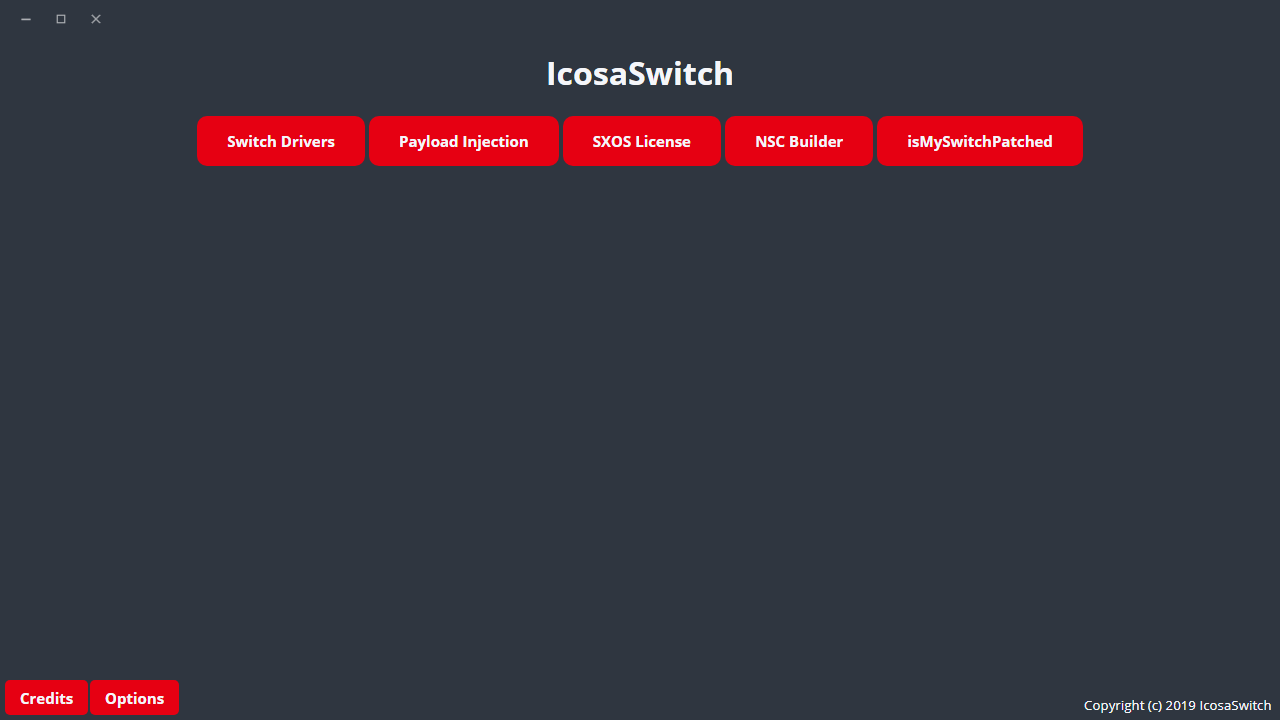
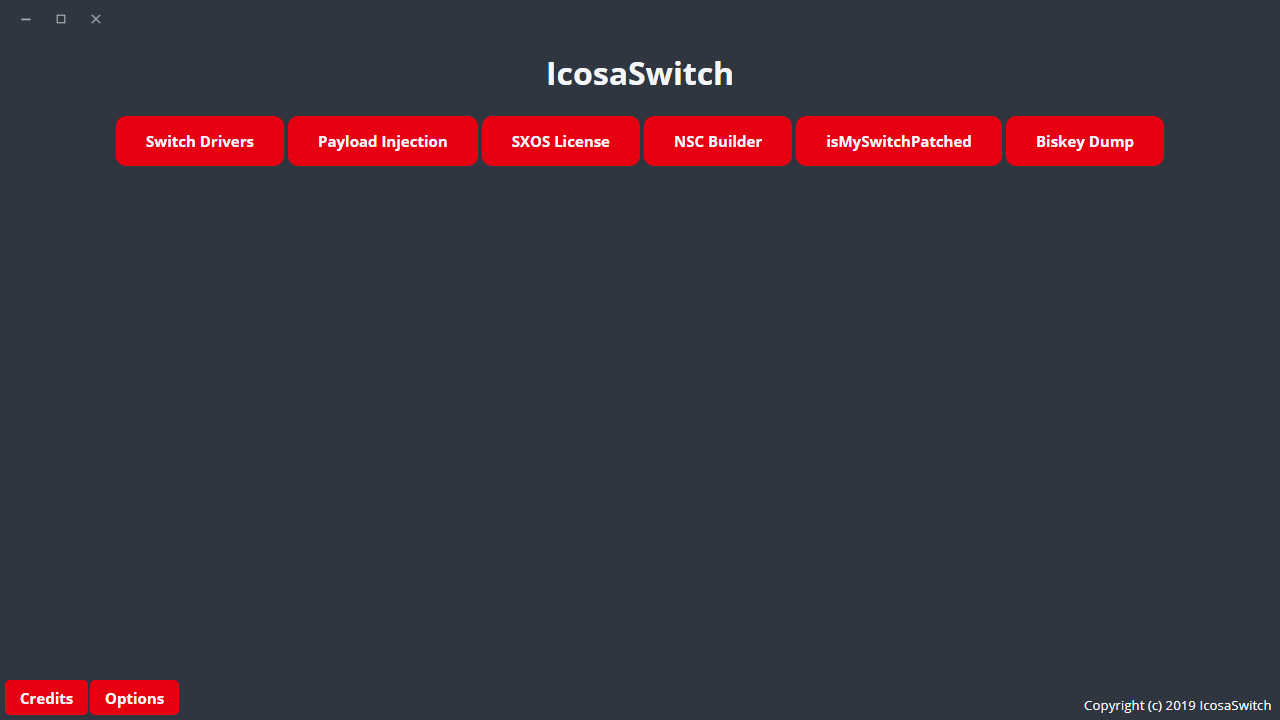
Added BiskeyDump and init 1.5.0

Changed region(s): [[0.0938, 0.1528, 0.9062, 0.2444]]

diff --git a/app/js/ui.js b/app/js/ui.js
@@ -254,6 +254,10 @@ function app(){
     document.getElementById("main").innerHTML = ejs.render(fs.readFileSync(path.join(__dirname, "ui", "switchpatch", "main.ejs"), "utf8"));
     switchpatch();
   });
+  $("#biskeydump").click(() => {
+    document.getElementById("main").innerHTML = ejs.render(fs.readFileSync(path.join(__dirname, "ui", "biskeydump", "main.ejs"), "utf8"));
+    biskeydump();
+  });
 }
 
 function credits(){
@@ -1127,4 +1131,179 @@ function switchpatch(){
       }
     }
   });
+}
+
+function biskeydump(){
+  $("#mainmenu").click(() => {
+    app();
+  });
+  $("#continue").click(async () => {
+    if(process.platform === "win32"){
+      if(!fs.existsSync(path.join(root, "TegraRcmSmash.exe"))){
+        document.getElementById("tool").innerHTML = "<p>"+options.lang.downloading+"...</p>";
+        document.getElementById("mainmenu").setAttribute("style", 'visibility: hidden;');
+        const res = await fetch('https://github.com/Pharuxtan/IcosaSwitch/releases/download/files/TegraRcmSmash.exe');
+        let result;
+        await new Promise((resolve, reject) => {
+          const fileStream = fs.createWriteStream(path.join(root, "TegraRcmSmash.exe"));
+          res.body.pipe(fileStream);
+          res.body.on("error", (err) => {
+            result = err;
+            reject();
+          });
+          fileStream.on("finish", function() {
+            result = "success"
+            resolve();
+          });
+        });
+        if(result === "success"){
+          biskeydl();
+        } else {
+          document.getElementById("tool").innerHTML = "<p>"+options.lang.error+": "+result+"</p>";
+          document.getElementById("mainmenu").setAttribute("style", 'visibility: visible;');
+        }
+      } else {
+        biskeydl();
+      }
+    } else {
+      if(!fs.existsSync(path.join(root, "drivers", "fuseelauncher"))){
+        document.getElementById("tool").innerHTML = "<p>"+options.lang.downloading+"...</p>";
+        document.getElementById("mainmenu").setAttribute("style", 'visibility: hidden;');
+        const res = await fetch('https://github.com/Qyriad/fusee-launcher/archive/1.0.zip');
+        let result;
+        await new Promise((resolve, reject) => {
+          const fileStream = fs.createWriteStream(path.join(root, "fusee-launcher.zip"));
+          res.body.pipe(fileStream);
+          res.body.on("error", (err) => {
+            result = err;
+            reject();
+          });
+          fileStream.on("finish", function() {
+            result = "success"
+            resolve();
+          });
+        });
+        if(result === "success"){
+          document.getElementById("tool").innerHTML = "<p>"+options.lang.extracting+"...</p>";
+
+          let unzipper = new DecompressZip(path.join(root, "fusee-launcher.zip"));
+
+          unzipper.on('error', function (err) {
+              document.getElementById("tool").innerHTML = "<p>"+options.lang.error+": "+err+"</p>";
+              document.getElementById("mainmenu").setAttribute("style", 'visibility: visible;');
+          });
+
+          unzipper.on('extract', function (log) {
+            biskeydl();
+          });
+
+          unzipper.on('progress', function (fileIndex, fileCount) {
+              console.log('Extracted file ' + (fileIndex + 1) + ' of ' + fileCount);
+          });
+
+          unzipper.extract({
+              path: path.join(root, "fuseelauncher"),
+              filter: function (file) {
+                  return file.type !== "SymbolicLink";
+              }
+          });
+        } else {
+          document.getElementById("tool").innerHTML = "<p>"+options.lang.error+": "+result+"</p>";
+          document.getElementById("mainmenu").setAttribute("style", 'visibility: visible;');
+        }
+      } else {
+        biskeydl();
+      }
+    }
+  });
+  async function biskeydl(){
+    if(!fs.existsSync(path.join(root, "biskeydump.bin"))){
+      document.getElementById("tool").innerHTML = "<p>"+options.lang.downloading+"...</p>";
+      document.getElementById("mainmenu").setAttribute("style", 'visibility: hidden;');
+      const res = await fetch('https://github.com/Pharuxtan/IcosaSwitch/releases/download/files/biskeydump.bin');
+      let result;
+      await new Promise((resolve, reject) => {
+        const fileStream = fs.createWriteStream(path.join(root, "biskeydump.bin"));
+        res.body.pipe(fileStream);
+        res.body.on("error", (err) => {
+          result = err;
+          reject();
+        });
+        fileStream.on("finish", function() {
+          result = "success"
+          resolve();
+        });
+      });
+      if(result === "success"){
+        install();
+      } else {
+        document.getElementById("tool").innerHTML = "<p>"+options.lang.error+": "+result+"</p>";
+        document.getElementById("mainmenu").setAttribute("style", 'visibility: visible;');
+      }
+    } else {
+      install();
+    }
+  }
+  function install(){
+    if(process.platform === "win32"){
+      document.getElementById("mainmenu").setAttribute("style", 'visibility: hidden;');
+      document.getElementById("tool").innerHTML = '<p>'+options.lang.payload.injecting+'...</p><input class="button" type="button" value="'+options.lang.payload.cancel+'" id="cancel"/>';
+      const inj = exec(`${path.join(root, "TegraRcmSmash.exe")} -w ${path.join(root, "biskeydump.bin")} > ${path.join(root, "biskeydump.txt")}`);
+
+      let error = false;
+      let cancel = false;
+
+      inj.stderr.on('data', (data) => {
+        error = true;
+        document.getElementById("tool").innerHTML = "<p>"+options.lang.error+": "+data.toString()+"</p>";
+        document.getElementById("mainmenu").setAttribute("style", 'visibility: visible;');
+      });
+
+      inj.on('close', (code) => {
+        if(error || cancel) return;
+        document.getElementById("tool").innerHTML = "<p>"+options.lang.payload.biskey+"</p><p>"+path.join(root, "biskeydump.txt")+"</p>"+'<input type="button" id="openexplorer" value="'+options.lang.sxoslicense.explorer+'" class="button"/>';
+        document.getElementById("mainmenu").setAttribute("style", 'visibility: visible;');
+        $("#openexplorer").click(() => {
+          shell.showItemInFolder(path.join(root, "biskeydump.txt"));
+        });
+      });
+
+      $("#cancel").click(() => {
+        cancel = true;
+        spawn("taskkill", ["/pid", inj.pid, '/f', '/t']);
+        document.getElementById("tool").innerHTML = "<p>"+options.lang.payload.cancell+"</p>";
+        document.getElementById("mainmenu").setAttribute("style", 'visibility: visible;');
+      });
+    } else {
+      document.getElementById("mainmenu").setAttribute("style", 'visibility: hidden;');
+      document.getElementById("tool").innerHTML = '<p>'+options.lang.payload.injecting+'...</p><input class="button" type="button" value="'+options.lang.payload.cancel+'" id="cancel"/>';
+      const inj = exec(`python3 ${path.join(root, "fuseelauncher", "fusee-launcher-1.0", "fusee-launcher.py")} ${path.join(root, "biskeydump.bin")} > ${path.join(root, "biskeydump.txt")}`);
+
+      let error = false;
+      let cancel = false;
+
+      inj.stderr.on('data', (data) => {
+        error = true;
+        document.getElementById("tool").innerHTML = "<p>"+options.lang.error+": "+data.toString()+"</p>";
+        document.getElementById("mainmenu").setAttribute("style", 'visibility: visible;');
+      });
+
+      inj.on('close', (code) => {
+        if(error || cancel) return;
+        document.getElementById("tool").innerHTML = "<p>"+options.lang.payload.biskey+"</p><p>"+path.join(root, "biskeydump.txt")+"</p>"+'<input type="button" id="openexplorer" value="'+options.lang.sxoslicense.explorer+'" class="button"/>';
+        document.getElementById("mainmenu").setAttribute("style", 'visibility: visible;');
+        $("#openexplorer").click(() => {
+          shell.showItemInFolder(path.join(root, "biskeydump.txt"));
+        });
+      });
+
+      $("#cancel").click(() => {
+        cancel = true;
+        inj.stdin.pause();
+        inj.kill();
+        document.getElementById("tool").innerHTML = "<p>"+options.lang.payload.cancell+"</p>";
+        document.getElementById("mainmenu").setAttribute("style", 'visibility: visible;');
+      });
+    }
+  }
 }

diff --git a/app/css/bootstrap.css b/app/css/bootstrap.css
@@ -89,6 +89,7 @@ h1 {
 .button {
   background-color: #e60012;
   border: 0px;
+  cursor: pointer;
   border-radius: 10px;
   color: #f5f6fa;
   outline: none;
@@ -128,6 +129,7 @@ h1 {
 .availablebtn {
   background-color: #e60012;
   border: 0px;
+  cursor: pointer;
   border-radius: 10px;
   color: #f5f6fa;
   outline: none;
@@ -158,6 +160,7 @@ h1 {
   position: absolute;
   bottom: 5px;
   left: 5px;
+  cursor: pointer;
   font-family: 'OpenSans';
   font-weight:bold;
   font-size: 15px;
@@ -168,6 +171,7 @@ h1 {
   border: 0px;
   border-radius: 5px;
   color: #f5f6fa;
+  cursor: pointer;
   outline: none;
   padding: 7.5px 15px;
   position: absolute;

diff --git a/index.js b/index.js
@@ -101,15 +101,6 @@ app.on("ready", () => {
     slashes: true
   }));
 
-  const command = (process.platform === 'darwin') ? 'Alt+Cmd+I' : 'Ctrl+Shift+I';
-  globalShortcut.register(command, () => {
-    if(frame.webContents.isDevToolsOpened()){
-      frame.webContents.closeDevTools();
-    } else {
-      frame.webContents.openDevTools();
-    }
-  });
-
   frame.on('closed', () => {
     frame = null;
   });

diff --git a/README.md b/README.md
@@ -3,7 +3,7 @@
 <h1 align="center">IcosaSwitch</h1>
 
 <p align="center">
-  <img src="https://img.shields.io/badge/Version-1.4.0-%23e60012?style=for-the-badge" alt="version"> 
+  <img src="https://img.shields.io/badge/Version-1.5.0-%23e60012?style=for-the-badge" alt="version"> 
 </p>
 
 ## Download
